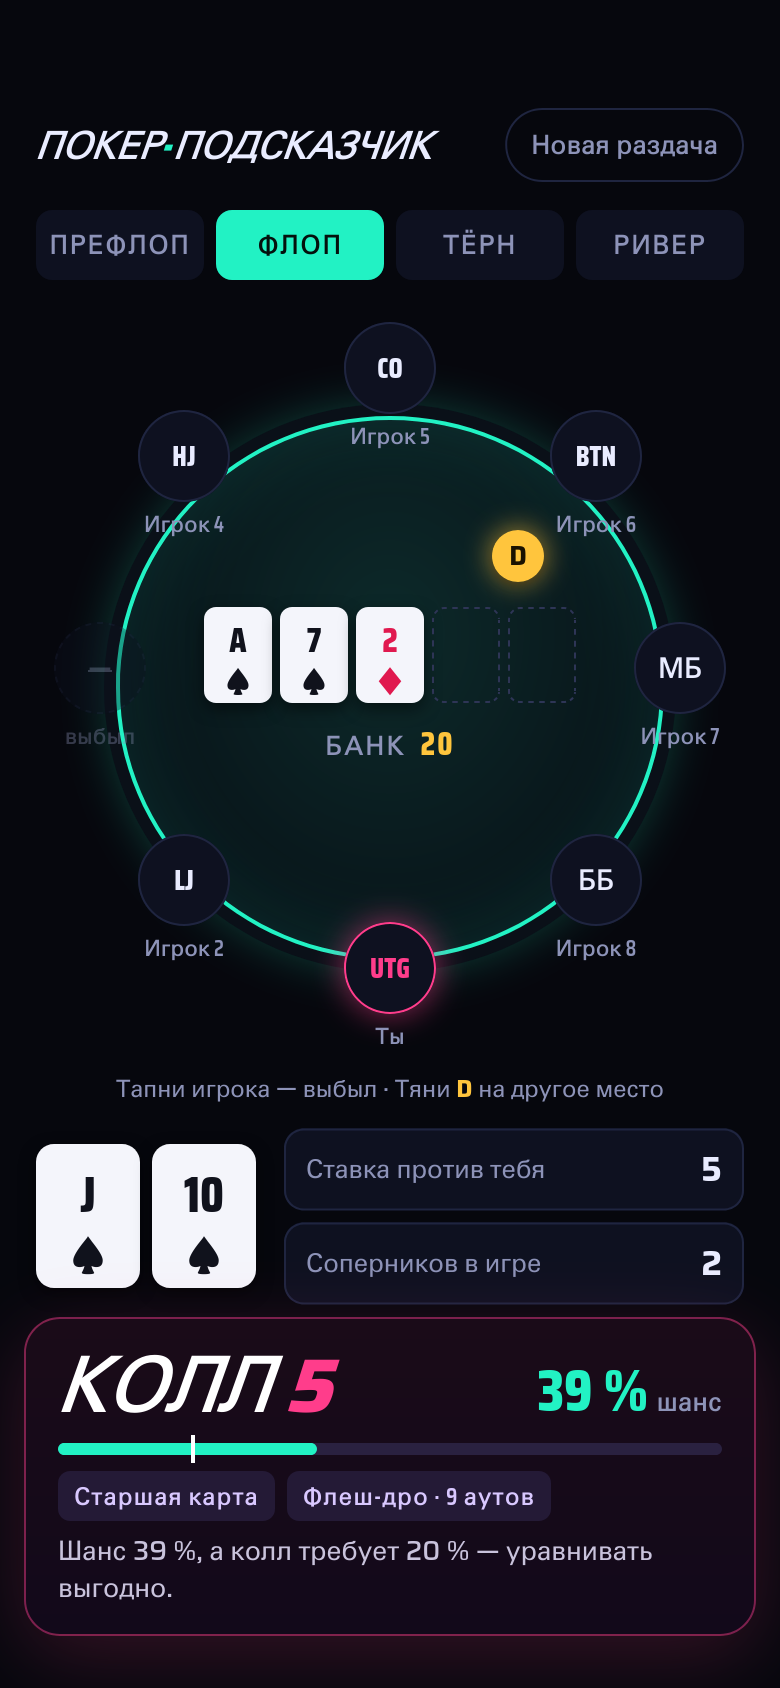
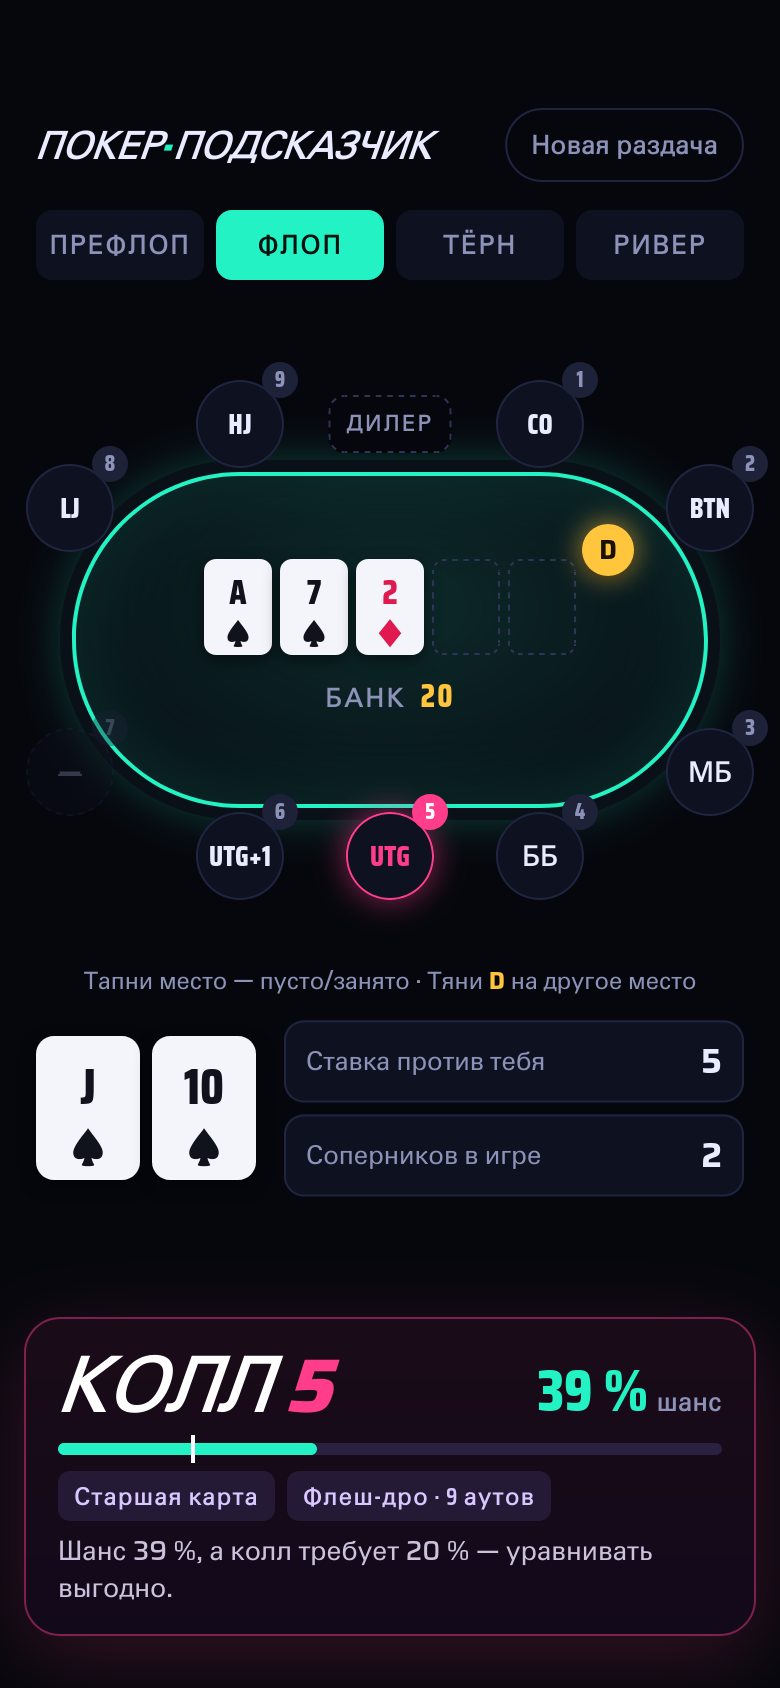
Макеты: стол как в казино — 9 мест, дилер посередине длинной стороны

Changed region(s): [[0.0308, 0.1848, 0.9846, 0.7701], [0.0308, 0.6161, 0.3692, 0.7701], [0.1846, 0.4621, 0.2154, 0.4929]]

diff --git a/mockups/common.js b/mockups/common.js
@@ -1,4 +1,6 @@
-// Общий код макетов: рассадка мест по овалу и карты. Только для показа дизайна.
+// Общий код макетов: живой стол на 9 мест и карты. Только для показа дизайна.
+// Стол вытянутый (как в казино): дилер посередине верхней длинной стороны,
+// место 1 справа от него, дальше по часовой стрелке до места 9 слева от дилера.
 import { positionInfo } from '../src/positions.js';
 
 const SUIT = { s: '♠', h: '♥', d: '♦', c: '♣' };
@@ -8,42 +10,57 @@ export function card(code, extra = '') {
   const r = RANK[code[0]] || code[0];
   return `<span class="card suit-${code[1]} ${extra}"><b>${r}</b><i>${SUIT[code[1]]}</i></span>`;
 }
-export const back = () => '<span class="card back"></span>';
 
-// Место 0 — ты (внизу по центру), дальше по часовой стрелке.
-export const SEATS = [
-  { name: 'Ты' }, { name: 'Игрок 2' }, { name: 'Игрок 3', out: true }, { name: 'Игрок 4' },
-  { name: 'Игрок 5' }, { name: 'Игрок 6' }, { name: 'Игрок 7' }, { name: 'Игрок 8' },
-];
-export const BUTTON_SEAT = 5;
+// Размеры стола в макете (px), всё переводится в проценты.
+const W = 358, H = 300, CY = 150, CX1 = 104, CX2 = 254, R = 84, RING = 108;
+const pct = (x, y) => ({ left: `${(x / W) * 100}%`, top: `${(y / H) * 100}%` });
+const onCurve = (cx, deg) => [cx + RING * Math.cos((deg * Math.PI) / 180), CY + RING * Math.sin((deg * Math.PI) / 180)];
+const TOP = CY - RING, BOTTOM = CY + RING;
+
+export const DEALER_XY = [179, TOP];
+export const SEAT_XY = {
+  1: [CX2, TOP], 2: onCurve(CX2, -38), 3: onCurve(CX2, 38), 4: [CX2, BOTTOM], 5: [179, BOTTOM],
+  6: [CX1, BOTTOM], 7: onCurve(CX1, 142), 8: onCurve(CX1, 218), 9: [CX1, TOP],
+};
+
+// Пример раздачи: ты на месте 5, место 7 пустое, кнопка у места 2.
+export const HERO = 5, EMPTY = [7], BUTTON = 2;
 
 const SHORT = { BTN: 'BTN', SB: 'МБ', BB: 'ББ', CO: 'CO', HJ: 'HJ', LJ: 'LJ' };
 
-export function placeSeats(table, { rx = 0.5, ry = 0.5, chipAt = 0.7, render }) {
-  const active = SEATS.map((s, i) => i).filter((i) => !SEATS[i].out);
-  const btnIndex = active.indexOf(BUTTON_SEAT);
-  const angleOf = (i) => Math.PI / 2 + (i / SEATS.length) * Math.PI * 2; // 0 = низ, по часовой
-  SEATS.forEach((seat, i) => {
-    const a = angleOf(i);
-    const x = 50 + Math.cos(a) * rx * 100, y = 50 + Math.sin(a) * ry * 100;
+export function placeSeats(table, { chipAt = 0.32, render, dealer }) {
+  table.style.setProperty('--sx', `${((CX1 - R) / W) * 100}%`);
+  table.style.setProperty('--sy', `${((CY - R) / H) * 100}%`);
+  table.style.setProperty('--sw', `${((CX2 - CX1 + 2 * R) / W) * 100}%`);
+  table.style.setProperty('--sh', `${((2 * R) / H) * 100}%`);
+
+  const active = [1, 2, 3, 4, 5, 6, 7, 8, 9].filter((n) => !EMPTY.includes(n));
+  const btnIndex = active.indexOf(BUTTON);
+  for (let n = 1; n <= 9; n++) {
+    const empty = EMPTY.includes(n);
     let pos = null;
-    if (!seat.out) {
-      const offset = (active.indexOf(i) - btnIndex + active.length) % active.length;
+    if (!empty) {
+      const offset = (active.indexOf(n) - btnIndex + active.length) % active.length;
       const info = positionInfo(active.length, offset);
       pos = SHORT[info.key] || info.key;
     }
     const el = document.createElement('div');
-    el.className = `seat${i === 0 ? ' is-hero' : ''}${seat.out ? ' is-out' : ''}`;
-    el.style.left = `${x}%`; el.style.top = `${y}%`;
-    el.innerHTML = render(seat, pos, i);
+    el.className = `seat${n === HERO ? ' is-hero' : ''}${empty ? ' is-out' : ''}`;
+    Object.assign(el.style, pct(...SEAT_XY[n]));
+    el.innerHTML = render(n, pos, empty, n === HERO);
     table.appendChild(el);
-  });
-  const a = angleOf(BUTTON_SEAT);
+  }
+  const d = document.createElement('div');
+  d.className = 'croupier';
+  Object.assign(d.style, pct(...DEALER_XY));
+  d.innerHTML = dealer;
+  table.appendChild(d);
+
+  const [bx, by] = SEAT_XY[BUTTON];
   const chip = document.createElement('div');
   chip.className = 'dealer';
   chip.textContent = 'D';
-  chip.style.left = `${50 + Math.cos(a) * rx * 100 * chipAt}%`;
-  chip.style.top = `${50 + Math.sin(a) * ry * 100 * chipAt}%`;
+  Object.assign(chip.style, pct(bx + (179 - bx) * chipAt, by + (CY - by) * chipAt));
   table.appendChild(chip);
 }
 

diff --git a/mockups/c-broadcast.html b/mockups/c-broadcast.html
@@ -25,9 +25,9 @@
                  text-transform: uppercase; color: var(--muted); padding: 8px 0 6px; }
   .streets .on { color: var(--text); box-shadow: inset 0 -3px 0 var(--yellow); }
 
-  .table-wrap { position: relative; height: 330px; margin: 26px 10px 0; }
-  .oval { position: absolute; inset: 40px 34px; border-radius: 50%; background: #17191d; border: 1px solid var(--line); }
-  .oval::before { content: ''; position: absolute; inset: 14px; border-radius: 50%; border: 1px dashed #2f323a; }
+  .table-wrap { position: relative; width: 358px; height: 300px; margin: 22px auto 6px; }
+  .oval { position: absolute; left: var(--sx); top: var(--sy); width: var(--sw); height: var(--sh); border-radius: 999px; background: #17191d; border: 1px solid var(--line); }
+  .oval::before { content: ''; position: absolute; inset: 14px; border-radius: 999px; border: 1px dashed #2f323a; }
   .center { position: absolute; inset: 0; display: grid; place-content: center; justify-items: center; gap: 8px; }
   .board { display: flex; gap: 4px; }
   .pot { font: 800 13px 'Fira Sans Extra Condensed'; letter-spacing: .1em; color: var(--muted); }
@@ -37,7 +37,9 @@
   .tag { display: flex; height: 26px; box-shadow: 0 4px 10px rgba(0,0,0,.5); }
   .tag i { font: 800 13px/26px 'Fira Sans Extra Condensed'; font-style: normal; background: var(--yellow); color: #111;
            padding: 0 6px; min-width: 30px; text-align: center; }
-  .tag b { font: 600 13px/26px 'Fira Sans Extra Condensed'; background: #24272e; padding: 0 7px; white-space: nowrap; }
+  .tag b { font: 800 14px/26px 'Fira Sans Extra Condensed'; background: #24272e; padding: 0 7px; white-space: nowrap; }
+  .tag i { order: 2; }
+  .croupier { position: absolute; transform: translate(-50%, -50%); font: 800 12px 'Fira Sans Extra Condensed'; letter-spacing: .12em; color: #111; background: var(--text); padding: 4px 9px; }
   .seat.is-hero .tag { height: 32px; } .seat.is-hero .tag i, .seat.is-hero .tag b { line-height: 32px; font-size: 16px; }
   .seat.is-hero .tag b { background: var(--text); color: #111; }
   .seat.is-out .tag { opacity: .45; } .seat.is-out .tag i { background: #3a3d45; color: var(--muted); }
@@ -91,7 +93,7 @@
 </style>
 </head>
 <body>
-  <header><div class="live">● ФЛОП</div><div class="title">Раздача #12 <span>7 игроков</span></div></header>
+  <header><div class="live">● ФЛОП</div><div class="title">Раздача #12 <span>8 игроков</span></div></header>
   <div class="streets"><div>Префлоп</div><div class="on">Флоп</div><div>Тёрн</div><div>Ривер</div></div>
 
   <div class="table-wrap" id="table">
@@ -101,7 +103,7 @@
 
   <div class="lower">
     <div class="cards" id="mine"></div>
-    <div class="info"><div class="name">Ты · <span>UTG</span></div><div class="sub">Старшая карта · флеш-дро, 9 аутов</div></div>
+    <div class="info"><div class="name">Место 5 · <span>UTG</span></div><div class="sub">Старшая карта · флеш-дро, 9 аутов</div></div>
   </div>
   <div class="win"><div><b>39%</b><small>ШАНС</small></div><div class="meter"><div></div><em></em></div><div style="text-align:right"><b style="color:var(--muted)">20%</b><small>НУЖНО</small></div></div>
 
@@ -121,8 +123,8 @@
 
 <script type="module">
   import { card, placeSeats } from './common.js';
-  placeSeats(document.getElementById('table'), { rx: 0.36, ry: 0.43, chipAt: 0.7,
-    render: (s, pos) => `<div class="tag"><i>${s.out ? '—' : pos}</i><b>${s.out ? 'выбыл' : s.name}</b></div>` });
+  placeSeats(document.getElementById('table'), { dealer: 'ДИЛЕР',
+    render: (n, pos, empty) => `<div class="tag"><b>${n}</b><i>${empty ? '—' : pos}</i></div>` });
   const empty = '<span class="card empty"></span>';
   document.getElementById('board').innerHTML = ['As', '7s', '2d'].map((c) => card(c)).join('') + empty + empty;
   document.getElementById('mine').innerHTML = card('Js', 'big') + card('Ts', 'big');

diff --git a/mockups/b-felt.html b/mockups/b-felt.html
@@ -19,11 +19,11 @@
   .street { font: 700 12px Manrope; color: var(--gold); letter-spacing: .14em; text-transform: uppercase;
             border: 1px solid rgba(216,178,90,.45); border-radius: 999px; padding: 6px 12px; }
 
-  .table-wrap { position: relative; height: 300px; margin: 40px 6px 0; }
-  .rail { position: absolute; inset: 30px 22px; border-radius: 160px;
+  .table-wrap { position: relative; width: 358px; height: 300px; margin: 34px auto 0; }
+  .rail { position: absolute; left: calc(var(--sx) - 14px); top: calc(var(--sy) - 14px); width: calc(var(--sw) + 28px); height: calc(var(--sh) + 28px); border-radius: 999px;
           background: linear-gradient(160deg, var(--wood-hi), var(--wood) 45%, #2b170c);
           box-shadow: 0 18px 40px rgba(0,0,0,.6), inset 0 2px 0 rgba(255,255,255,.12); }
-  .felt { position: absolute; inset: 16px; border-radius: 150px;
+  .felt { position: absolute; inset: 14px; border-radius: 999px;
           background: radial-gradient(ellipse at 50% 35%, #1a7a51, var(--felt) 45%, var(--felt-deep));
           box-shadow: inset 0 6px 24px rgba(0,0,0,.55); }
   .felt::after { content: ''; position: absolute; inset: 0; border-radius: inherit; opacity: .35; mix-blend-mode: overlay;
@@ -35,13 +35,14 @@
   .pot b { color: var(--gold); }
 
   .seat { position: absolute; transform: translate(-50%, -50%); z-index: 2; }
-  .plate { min-width: 64px; padding: 5px 8px 6px; border-radius: 10px; text-align: center;
+  .plate { min-width: 46px; padding: 4px 6px 5px; border-radius: 10px; text-align: center;
            background: #18241d; border: 1px solid #2f4637; box-shadow: 0 4px 10px rgba(0,0,0,.5); }
-  .plate b { display: block; font: 800 12px Manrope; color: var(--ivory); }
+  .plate b { display: block; font: 400 18px/1.05 Prata; color: var(--ivory); }
   .plate span { display: block; font: 700 10px Manrope; color: var(--gold); letter-spacing: .08em; }
   .seat.is-hero .plate { background: var(--ivory); border-color: var(--gold); }
   .seat.is-hero .plate b { color: #1d150c; } .seat.is-hero .plate span { color: #8a6a1f; }
   .seat.is-out .plate { opacity: .4; border-style: dashed; background: transparent; }
+  .croupier { position: absolute; transform: translate(-50%, -50%); z-index: 2; font: 700 10px Manrope; letter-spacing: .12em; text-transform: uppercase; color: var(--gold); background: #1d130b; border: 1px solid #5b3a20; border-radius: 8px; padding: 5px 9px; }
   .dealer { position: absolute; transform: translate(-50%, -50%); z-index: 2; width: 28px; height: 28px; border-radius: 50%;
             background: var(--ivory); color: #1d150c; font: 400 13px Prata; display: grid; place-items: center;
             border: 2px solid var(--gold); box-shadow: 0 3px 6px rgba(0,0,0,.6); }
@@ -95,7 +96,7 @@
 
   <div class="table-wrap" id="table">
     <div class="rail"><div class="felt"></div></div>
-    <div class="felt-line" style="inset:64px 56px"></div>
+    
     <div class="center"><div class="board" id="board"></div><div class="pot">Банк <b>20</b></div></div>
   </div>
 
@@ -126,8 +127,8 @@
 
 <script type="module">
   import { card, placeSeats } from './common.js';
-  placeSeats(document.getElementById('table'), { rx: 0.37, ry: 0.42, chipAt: 0.66,
-    render: (s, pos) => `<div class="plate"><b>${s.out ? 'Выбыл' : s.name}</b><span>${s.out ? '' : pos}</span></div>` });
+  placeSeats(document.getElementById('table'), { dealer: 'Дилер',
+    render: (n, pos, empty) => `<div class="plate"><b>${n}</b><span>${empty ? 'пусто' : pos}</span></div>` });
   const empty = '<span class="card empty"></span>';
   document.getElementById('board').innerHTML = ['As', '7s', '2d'].map((c) => card(c)).join('') + empty + empty;
   document.getElementById('mine').innerHTML = card('Js', 'big') + card('Ts', 'big');

diff --git a/mockups/a-neon.html b/mockups/a-neon.html
@@ -24,8 +24,8 @@
                  letter-spacing: .06em; color: var(--muted); padding: 7px 0; border-radius: 8px; background: var(--panel); }
   .streets .on { color: #04110d; background: var(--neon); }
 
-  .table-wrap { position: relative; height: 340px; margin: 34px 18px 0; }
-  .felt { position: absolute; inset: 34px 40px; border-radius: 50%;
+  .table-wrap { position: relative; width: 358px; height: 300px; margin: 30px auto 0; }
+  .felt { position: absolute; left: var(--sx); top: var(--sy); width: var(--sw); height: var(--sh); border-radius: 999px;
           background: radial-gradient(ellipse at 50% 40%, #0d2a2a 0%, #081419 70%);
           border: 2px solid var(--neon);
           box-shadow: 0 0 0 6px #0a1018, 0 0 28px rgba(34,242,196,.35), inset 0 0 40px rgba(34,242,196,.12); }
@@ -34,9 +34,11 @@
   .pot { font: 700 13px 'Saira Condensed'; letter-spacing: .08em; color: var(--muted); text-transform: uppercase; }
   .pot b { color: var(--gold); font-size: 16px; margin-left: 4px; }
   .seat { position: absolute; transform: translate(-50%, -50%); display: grid; justify-items: center; gap: 3px; }
-  .seat .disc { width: 46px; height: 46px; border-radius: 50%; background: var(--panel); border: 1.5px solid var(--line);
+  .seat .disc { width: 44px; height: 44px; border-radius: 50%; background: var(--panel); border: 1.5px solid var(--line);
                 display: grid; place-items: center; font: 800 14px 'Saira Condensed'; color: var(--text); }
-  .seat .name { font: 600 11px 'Saira Condensed'; color: var(--muted); }
+  .seat .name { position: absolute; top: -9px; right: -7px; min-width: 18px; height: 18px; border-radius: 9px; background: #1d2238; font: 700 11px/18px 'Saira Condensed'; color: var(--muted); text-align: center; }
+  .seat.is-hero .name { background: var(--hot); color: #fff; }
+  .croupier { position: absolute; transform: translate(-50%, -50%); font: 700 11px 'Saira Condensed'; letter-spacing: .1em; text-transform: uppercase; color: var(--muted); border: 1px dashed #2e3556; border-radius: 8px; padding: 5px 8px; background: var(--bg); }
   .seat.is-hero .disc { border-color: var(--hot); box-shadow: 0 0 16px rgba(255,61,139,.55); color: var(--hot); }
   .seat.is-out { opacity: .35; }
   .seat.is-out .disc { border-style: dashed; color: var(--muted); text-decoration: line-through; }
@@ -105,7 +107,7 @@
       <div class="pot">Банк <b>20</b></div>
     </div>
   </div>
-  <div class="hint" style="position:static;margin-top:22px">Тапни игрока — выбыл · Тяни <b style="color:var(--gold)">D</b> на другое место</div>
+  <div class="hint" style="position:static;margin-top:12px">Тапни место — пусто/занято · Тяни <b style="color:var(--gold)">D</b> на другое место</div>
 
   <div class="me">
     <div class="cards" id="mine"></div>
@@ -134,8 +136,8 @@
 <script type="module">
   import { card, placeSeats } from './common.js';
   const t = document.getElementById('table');
-  placeSeats(t, { rx: 0.41, ry: 0.44, chipAt: 0.62,
-    render: (s, pos) => `<div class="disc">${s.out ? '—' : pos}</div><div class="name">${s.out ? 'выбыл' : s.name}</div>` });
+  placeSeats(t, { dealer: 'Дилер',
+    render: (n, pos, empty) => `<div class="disc">${empty ? '—' : pos}</div><div class="name">${n}</div>` });
   document.getElementById('board').innerHTML = ['As', '7s', '2d'].map((c) => card(c)).join('') + card('2d', 'empty').replace(/<b>.*<\/i>/, '') + card('2d', 'empty').replace(/<b>.*<\/i>/, '');
   document.getElementById('mine').innerHTML = card('Js', 'big') + card('Ts', 'big');
   document.getElementById('already').innerHTML = card('As') + ' ' + card('7s');
